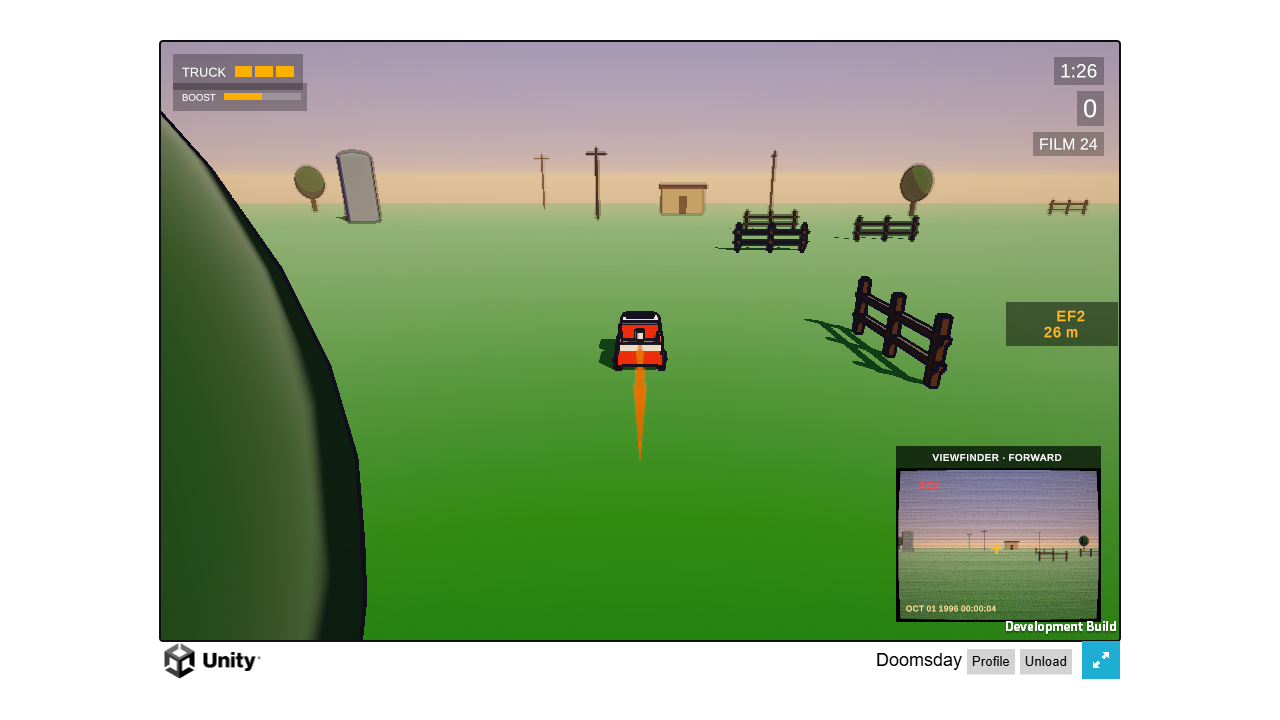
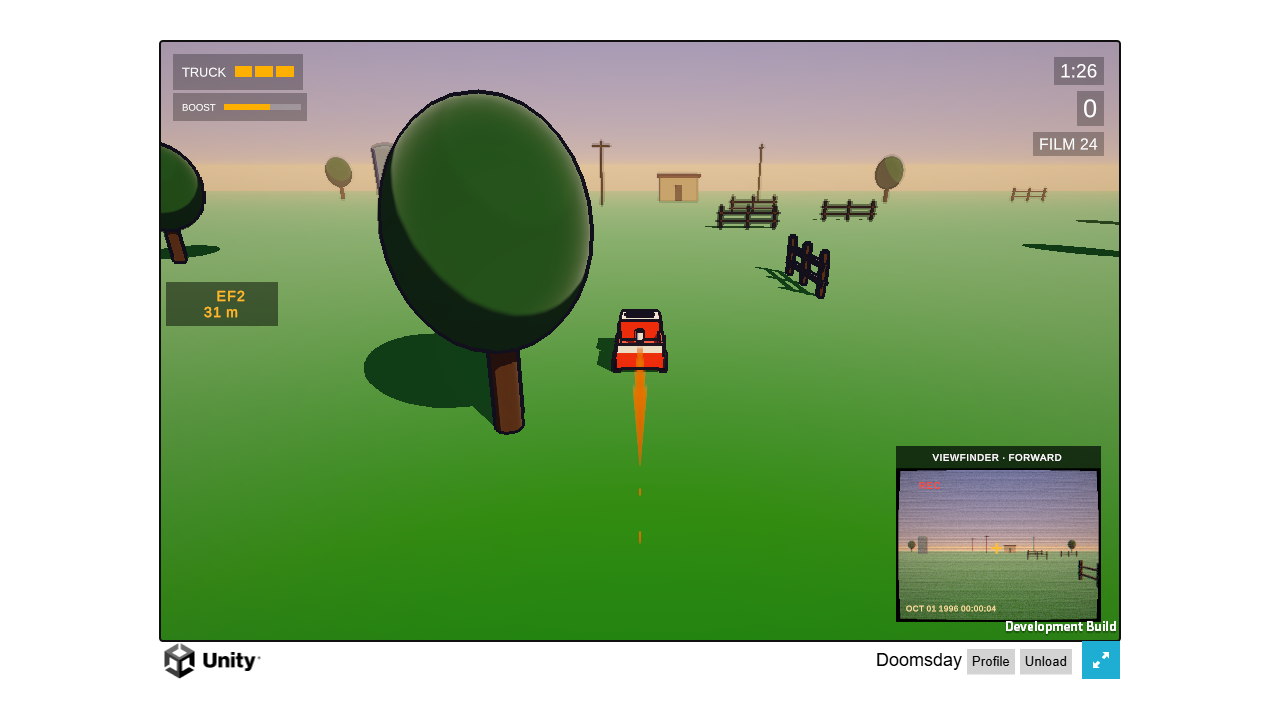
fix: HUD boost meter layout + refill flash; deterministic EF3 wind test
- HudController: truck HP and boost meter stacked in one top-left column
  (no overlap at any UI scale); meter flashes on StyleEvent refills
  (vehicle-feel.md UI Requirements); colour only changes on state changes.
- RunLoopSmokeTests.TornadoWind_ParkedNearEF3_IsDraggedNotTossed: test funnel
  pinned with HoldMature (it wandered several m during the 1 s window, so
  wind read 1.5-13 m/s across runs) and asserts it stays at 15 m. Now
  deterministic, 3/3 identical: wind 4.45 m/s, moved 0.47 m vs the 0.5 m
  criterion -> fails honestly until the Storm Director F3 EF scale lands.
- AGENTS.md: style-pop request to Codex for 0.7.
- Tests: EditMode 138/138; PlayMode 7/8 (only the wind test above).

Story: S7-04 follow-ups; S7-06 (vehicle-feel.md AC "Parked 15 m from an EF3")

Changed region(s): [[0.125, 0.0917, 0.875, 0.8861], [0.6875, 0.7333, 0.875, 0.825], [0.7812, 0.3972, 0.875, 0.4889]]

diff --git a/unity/StormChaserLoop3D/Assets/Scripts/UI/HudController.cs b/unity/StormChaserLoop3D/Assets/Scripts/UI/HudController.cs
@@ -10,6 +10,8 @@ public class HudController : MonoBehaviour
     private static readonly Color HpEmpty = new Color(1f, 1f, 1f, 0.15f);
     private static readonly Color HpHit = new Color(0.95f, 0.22f, 0.18f);
     private static readonly Color BoostOff = new Color(0.55f, 0.55f, 0.55f);
+    private static readonly Color BoostFlash = new Color(1f, 0.95f, 0.7f);
+    private const long BoostFlashMs = 250;
     private const float BoostBarWidth = 96f;
 
     [SerializeField] private SessionTimer _sessionTimer;
@@ -44,6 +46,7 @@ public class HudController : MonoBehaviour
     private void OnEnable()
     {
         GameEvents.PlayerDamaged += OnPlayerDamaged;
+        GameEvents.StyleEvent += OnStyleEvent;
         GameEvents.FilmChanged += OnFilmChanged;
         GameEvents.OutOfFilm += OnOutOfFilm;
     }
@@ -51,6 +54,7 @@ public class HudController : MonoBehaviour
     private void OnDisable()
     {
         GameEvents.PlayerDamaged -= OnPlayerDamaged;
+        GameEvents.StyleEvent -= OnStyleEvent;
         GameEvents.FilmChanged -= OnFilmChanged;
         GameEvents.OutOfFilm -= OnOutOfFilm;
     }
@@ -76,10 +80,14 @@ public class HudController : MonoBehaviour
         right.Add(_filmLabel);
         root.Add(right);
 
+        // Top-left column: truck HP, then the boost meter, stacked by layout so they never overlap.
+        var leftColumn = new VisualElement { pickingMode = PickingMode.Ignore };
+        leftColumn.style.position = Position.Absolute;
+        leftColumn.style.top = 16;
+        leftColumn.style.left = 16;
+        leftColumn.style.alignItems = Align.FlexStart;
+
         var left = new VisualElement();
-        left.style.position = Position.Absolute;
-        left.style.top = 16;
-        left.style.left = 16;
         left.style.flexDirection = FlexDirection.Row;
         left.style.alignItems = Align.Center;
         left.style.backgroundColor = new Color(0, 0, 0, 0.5f);
@@ -105,13 +113,11 @@ public class HudController : MonoBehaviour
             _hpPips.Add(pip);
             left.Add(pip);
         }
-        root.Add(left);
+        leftColumn.Add(left);
 
         // vehicle-feel.md UI: boost meter under truck HP; amber fill, grey while Critical disables boost.
         var boostRow = new VisualElement { pickingMode = PickingMode.Ignore };
-        boostRow.style.position = Position.Absolute;
-        boostRow.style.top = 52;
-        boostRow.style.left = 16;
+        boostRow.style.marginTop = 4;
         boostRow.style.flexDirection = FlexDirection.Row;
         boostRow.style.alignItems = Align.Center;
         boostRow.style.backgroundColor = new Color(0, 0, 0, 0.5f);
@@ -134,7 +140,8 @@ public class HudController : MonoBehaviour
         _boostFill.style.backgroundColor = HpFull;
         track.Add(_boostFill);
         boostRow.Add(track);
-        root.Add(boostRow);
+        leftColumn.Add(boostRow);
+        root.Add(leftColumn);
 
         // Top-center risk/reward meter: shows the live bonus a shot would get from here.
         var center = new VisualElement { pickingMode = PickingMode.Ignore };
@@ -193,16 +200,31 @@ public class HudController : MonoBehaviour
         }
     }
 
+    // vehicle-feel.md UI: the boost meter flashes when a style refill lands (drift, airtime, near-miss).
+    private void OnStyleEvent(StyleKind kind, float amount)
+    {
+        if (_boostFill == null || _boostDisabledShown) return;
+        _boostFill.style.backgroundColor = BoostFlash;
+        _boostFill.schedule.Execute(() =>
+            _boostFill.style.backgroundColor = _boostDisabledShown ? BoostOff : HpFull).StartingIn(BoostFlashMs);
+    }
+
     private void UpdateBoostMeter()
     {
         if (_vehicle == null || _boostFill == null) return;
         float shown = Mathf.Round(_vehicle.BoostMeter);
         bool disabled = _vehicleHealth != null && _vehicleHealth.Stage == DamageStage.Critical;
-        if (shown == _lastBoostShown && disabled == _boostDisabledShown) return;
-        _lastBoostShown = shown;
-        _boostDisabledShown = disabled;
-        _boostFill.style.width = BoostBarWidth * shown / 100f;
-        _boostFill.style.backgroundColor = disabled ? BoostOff : HpFull;
+        if (shown != _lastBoostShown)
+        {
+            _lastBoostShown = shown;
+            _boostFill.style.width = BoostBarWidth * shown / 100f;
+        }
+        // Colour only on a state change, so a refill flash isn't overwritten by the next width update.
+        if (disabled != _boostDisabledShown)
+        {
+            _boostDisabledShown = disabled;
+            _boostFill.style.backgroundColor = disabled ? BoostOff : HpFull;
+        }
     }
 
     private void UpdateWindMeter()

diff --git a/unity/StormChaserLoop3D/Assets/Tests/PlayMode/RunLoopSmokeTests.cs b/unity/StormChaserLoop3D/Assets/Tests/PlayMode/RunLoopSmokeTests.cs
@@ -116,7 +116,11 @@ public class RunLoopSmokeTests
         Vector3 origin = truck.transform.position + new Vector3(0f, 0f, 60f);
         TornadoController tornado = Object.Instantiate(prefab, new Vector3(origin.x, 0f, origin.z), Quaternion.identity);
         tornado.Initialize(ef3, truck.transform);
-        yield return new WaitForSeconds(4f); // _formSeconds = 3 → Mature
+        // Pin it Mature and stationary: a wandering funnel (random heading, player pull) moved several m
+        // during the 1 s measurement, so the 15 m distance and the wind reading varied run to run (flaky).
+        tornado.HoldMature = true;
+        yield return null;
+        yield return new WaitForFixedUpdate();
 
         // Park 15 m off the funnel's axis, no input.
         Vector3 start = tornado.transform.position + new Vector3(15f, 0f, 0f);
@@ -141,6 +145,9 @@ public class RunLoopSmokeTests
             GameEvents.Tossed -= onTossed;
         }
 
+        float distance = Vector2.Distance(new Vector2(tornado.transform.position.x, tornado.transform.position.z),
+                                          new Vector2(start.x, start.z));
+        Assert.AreEqual(15f, distance, 0.01f, "the funnel must not move during the measurement");
         Vector3 delta = truck.transform.position - placed;
         float moved = new Vector2(delta.x, delta.z).magnitude;
         Debug.Log($"[Smoke] {tornado.EFRating} phase={tornado.Phase} windR={tornado.WindRadius:F1} " +

diff --git a/AGENTS.md b/AGENTS.md
@@ -285,5 +285,13 @@ Update your own line when you start/finish a task. Sprint 6 board archived in sp
   ≥ 0.5 s), `NearMiss` (amount 1; passing within 6 m of a funnel's damage edge at > 8 m/s, 3 s cooldown
   per funnel). Jump is A / Space (no event; watch `State` → Airborne / `Landed`). Shutter moved to RB / left
   mouse. Your boost flame showed up in a fresh dev WebGL capture (`production/qa/evidence/s7-04-*.png`).
+- **Claude → Codex (2026-10-03, request: style pops for 0.7, X7-02):** `StyleEvent` fires now (see the S7-04
+  note above), so please build the style pops from `vehicle-feel.md` UI Requirements: "DRIFT 2.4s",
+  "AIR 1.8s", "NEAR MISS", driven only by `GameEvents.StyleEvent(kind, amount)` (Drift/Airtime amount =
+  seconds, NearMiss amount = 1). Presentation lane, no gameplay reads. Optional per the GDD's VFX table:
+  near-miss speed-line burst toward the funnel + Doppler whoosh. Keep clear of the top-left HUD (truck HP +
+  boost meter, mine) and the top-centre IN THE WIND meter. Target: in the 0.7 build. Meanwhile I'm fixing the
+  boost-meter overlap, a refill flash on the meter, and the flaky EF3 wind test; I'll post when the 0.7
+  candidate is ready.
 
 - **Codex → Claude (2026-10-03, 0.7 style pops ready):** Your requested DRIFT 2.4s / AIR 1.8s / NEAR MISS pops already exist in VehicleCardVfx. Confirmed invariant one-decimal seconds, NearMiss without a duration, centered at 44% screen height on overlay order 30, clear of top-left HP/boost and top-centre wind UI. Style handler now responds solely to GameEvents.StyleEvent (no gameplay query) and makes the label visible immediately; existing 1.2-second lifetime/fade and run-end/disable cleanup remain. Full current gameplay source compiles and 29 pure presentation NUnit cases pass through the standalone managed runner, not Unity EditMode. Ready for your fresh 0.7 candidate: capture drift, airtime and near-miss pops plus boost start/release and impact sparks/crunch; listening acceptance still needs Andy. Optional near-miss directional lines/Doppler are omitted because StyleEvent contains no funnel bearing. No scenes, gameplay, settings or packages edited; no commit or push this turn.
